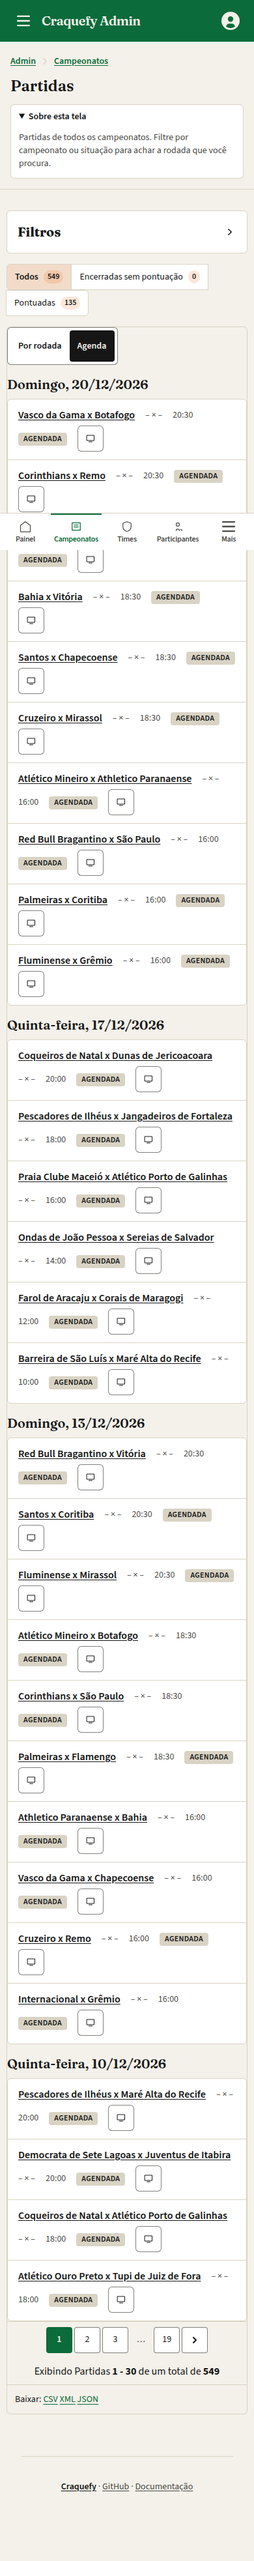
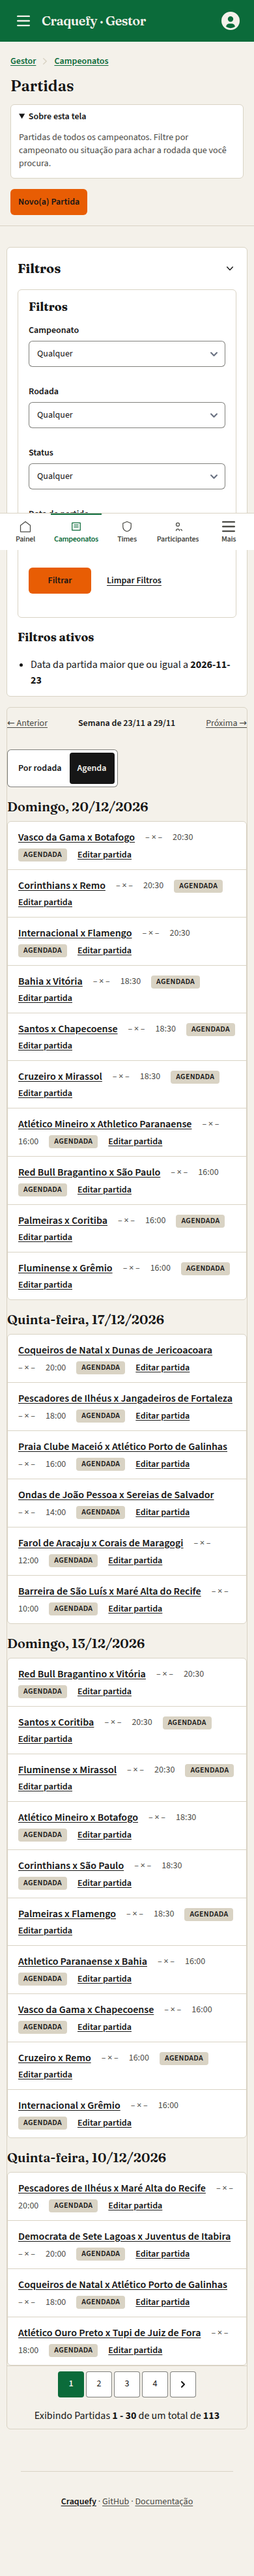
feat(admin): próximo passo por partida, agenda por semana e Filtros ativos em português (TICKET-0103)

diff --git a/spec/requests/admin/listings_spec.rb b/spec/requests/admin/listings_spec.rb
@@ -7,6 +7,7 @@ RSpec.describe 'Admin and Gestor listings on Ui::CollectionComponent (TICKET-010
 
   def page_html = Nokogiri::HTML5(response.body)
   def collection(id) = page_html.at_css("section##{id}[data-controller='collection']")
+  def week_link(label) = page_html.at_css("[data-role='agenda-weeks'] a[aria-label='#{label}']")
 
   before do
     championship.teams << team
@@ -76,6 +77,32 @@ RSpec.describe 'Admin and Gestor listings on Ui::CollectionComponent (TICKET-010
       get '/gestor/championships'
       card = page_html.at_css("#championships-item-#{championship.id}").text.squish
       expect(card).to include('Times 2', 'Partidas 1', 'rascunho', 'Continuar rascunho')
+    end
+
+    it 'shows the next step of each match' do
+      live = create(:match, championship:, status: 'live', match_date: 1.hour.ago, home_team: team)
+
+      get '/gestor/matches'
+
+      steps = page_html.css('#matches [data-role="match-step"]').to_h { [_1.text, _1['href']] }
+      expect(steps).to include('Registrar lances' => "/gestor/matches/#{live.id}")
+      expect(steps.keys).to include('Editar partida')
+    end
+
+    it 'walks the agenda week by week, also through an empty week' do
+      monday = Date.new(2026, 11, 9)
+      create(:match, championship:, match_date: Time.zone.local(2026, 11, 15, 16), home_team: team)
+
+      get '/gestor/matches', params: { view: 'agenda', q: { match_date_gteq: '2026-11-11' } }
+      expect(page_html.at_css('[data-role="agenda-week"]').text).to eq('Semana de 09/11 a 15/11')
+      expect(page_html.css('#matches [data-role="collection-group"] h3').map(&:text)).to eq(['Domingo, 15/11/2026'])
+
+      get week_link('Próxima semana')['href']
+      next_week = "Semana de #{(monday + 7).strftime('%d/%m')} a #{(monday + 13).strftime('%d/%m')}"
+      expect(page_html.at_css('[data-role="agenda-week"]').text).to eq(next_week)
+      expect(page_html.at_css('[data-role="empty-state"]')).to be_present
+      expect(page_html.at_css('.active-filters-title').text.squish).to eq('Filtros ativos')
+      expect(week_link('Semana anterior')).to be_present
     end
 
     it 'opens the round of the next match by default' do

diff --git a/spec/requests/links_spec.rb b/spec/requests/links_spec.rb
@@ -11,21 +11,20 @@ RSpec.describe 'Links e botões com rótulo de destino (TICKET-0106)', type: :re
     create(:match, championship: create(:championship, manager:), home_team: team)
     sign_in(manager)
 
-    get '/gestor/teams'
+    get '/gestor/teams', params: { view: 'table' }
 
-    labels = page.css("tr#core_team_#{team.id} [data-role='admin-table-action']").map { _1['aria-label'] }
-    expect(labels).to include('Abrir Real Paraisópolis', 'Editar Real Paraisópolis')
+    labels = page.css("#teams-item-#{team.id} [data-role='admin-table-action']").map { _1['aria-label'] }
+    expect(labels).to eq(['Editar Real Paraisópolis'])
   end
 
   it 'os ícones padrão do Admin dizem verbo e registro' do
     sign_in(create(:user, :admin))
     team = create(:team, name: 'Juventude do Morro')
 
-    get '/admin/teams'
+    get '/admin/teams', params: { view: 'table' }
 
-    labels = page.css("tr#core_team_#{team.id} [data-role='admin-table-action']").map { _1['aria-label'] }
-    expect(labels.first).to eq('Abrir Juventude do Morro')
-    expect(labels).to all(end_with('Juventude do Morro'))
+    labels = page.css("#teams-item-#{team.id} [data-role='admin-table-action']").map { _1['aria-label'] }
+    expect(labels).to eq(['Editar Juventude do Morro'])
   end
 
   it 'o painel vazio do Gestor oferece "Criar campeonato"' do

diff --git a/app/helpers/match_steps_helper.rb b/app/helpers/match_steps_helper.rb
@@ -1,0 +1,22 @@
+# The single next step of a match (Gestor::MatchQueue#step_for), in the Gestor queue and the Admin/Gestor match
+# lists. Steps without a page of their own (or edit on /admin, where matches are not edited) are a note.
+module MatchStepsHelper
+  MATCH_STEP_LINKS = { edit: 'Editar partida', scouts: 'Registrar lances', finalize: 'Finalizar partida' }.freeze
+  MATCH_STEP_NOTES = { edit: 'Agendada', scoring: 'Aguardando a pontuação', scored: 'Concluída',
+                       reverted: 'Aguardando nova pontuação' }.freeze
+
+  def match_next_step(match, step, namespace, classes: inline_link_classes(tone: :ink), role: 'match-step')
+    path = match_step_path(match, step, namespace)
+    return tag.span(MATCH_STEP_NOTES.fetch(step), class: AdminHelper::ADMIN_MUTED_TEXT_CLASSES) unless path
+
+    link_to MATCH_STEP_LINKS.fetch(step), path, class: classes, data: { role: }
+  end
+
+  def match_step_path(match, step, namespace)
+    case step
+    when :edit then edit_gestor_match_path(match) if namespace == :gestor
+    when :scouts then public_send(:"#{namespace}_match_path", match)
+    when :finalize then public_send(:"#{namespace}_match_path", match, modal: 'finalize')
+    end
+  end
+end

diff --git a/app/helpers/listings_helper.rb b/app/helpers/listings_helper.rb
@@ -8,4 +8,20 @@ module ListingsHelper
   def listing_view(views) = params[:view].to_s.presence_in(views.keys.map(&:to_s))&.to_sym || views.keys.first
 
   def listing_sort_options = { sort: params[:sort], direction: params[:dir] }
+
+  # Week shown by the matches agenda: the ActiveAdmin date filter (?q[match_date_gteq]), Monday to Sunday.
+  def agenda_week
+    Date.iso8601(params.dig(:q, :match_date_gteq).to_s).beginning_of_week
+  rescue Date::Error
+    nil
+  end
+
+  def agenda_week_path(week)
+    filters = request.query_parameters['q']
+    filters = (filters.is_a?(Hash) ? filters : {}).merge('match_date_gteq' => week.iso8601,
+                                                         'match_date_lt' => (week + 7).iso8601)
+    query = request.query_parameters.except('page', 'sort', 'dir')
+                   .merge('view' => 'agenda', 'order' => 'match_date_asc', 'q' => filters)
+    "#{request.path}?#{query.to_query}"
+  end
 end

diff --git a/docs/tickets/TICKET-0103.md b/docs/tickets/TICKET-0103.md
@@ -54,6 +54,10 @@ Lista corrida por data, com Rodada, Data, Placar e Situação fora da vista (`do
   | Importações CSV | tabela |
   | Logs de auditoria e Histórico | linha do tempo por dia |
 
+- **Partidas:**
+  - cada partida mostra o próximo passo ("Editar partida", "Registrar lances", "Finalizar partida" ou a situação), com o mesmo `MatchStepsHelper` da fila do Gestor;
+  - a agenda anda por semana ("← Anterior", "Próxima →") pelo filtro de data do ActiveAdmin, inclusive numa semana sem partidas.
+- **"Filtros ativos":** o título da busca ativa do ActiveAdmin, que a tradução da gem deixa em inglês ("Active Search").
 - **Painéis:** as filas do painel do Admin (ao vivo, pontuação pendente, últimas partidas, pedidos de gestor) e a fila do Gestor viram tabelas do componente. No celular, são cartões com o próximo passo dentro.
 - **Painel do Admin:** deixou de rolar para o lado em 390px (`min-w-0` nas colunas do grid).
 - **`Ui::CollectionComponent`:**
@@ -67,7 +71,8 @@ Lista corrida por data, com Rodada, Data, Placar e Situação fora da vista (`do
   - modo de cada listagem no Admin e no Gestor, sem a tabela do ActiveAdmin;
   - alternância de visualização;
   - ordenação e coluna desconhecida ignorada;
-  - contagens, linha do tempo, "Continuar rascunho" e rodada aberta.
+  - contagens, linha do tempo, "Continuar rascunho" e rodada aberta;
+  - próximo passo por partida e agenda semana a semana, passando por uma semana vazia.
 - `spec/components/ui/collection_component_spec.rb`: coluna que devolve número.
 - Specs do ActiveAdmin, da fila do Gestor, dos pedidos de gestor e do histórico atualizados para o componente.
 - Playwright: `docs/checkpoints/ux-audit/before-0103/` e `after-0103/`. Em 390px, nenhuma página rola para o lado (28 telas mais os dois painéis).

diff --git a/docs/checkpoints/UX-LISTAGENS.md b/docs/checkpoints/UX-LISTAGENS.md
@@ -34,7 +34,7 @@ As telas passaram para o componente por um renderizador de índice do ActiveAdmi
 | Campeonatos | `cards` | Logo, temporada, modalidade, times inscritos, partidas, situação e próximo passo ("Continuar rascunho" ou "Abrir") |
 | Times | `grid` ↔ `table` | Grade de escudos com o número de jogadores; tabela com sigla, capitão e gestor (Admin) |
 | Jogadores | `table` | Nome primeiro; ordenar por nome, posição, número e valor base; cartões no celular |
-| Partidas | `grouped` ↔ `agenda` | Por rodada de cada campeonato, com a primeira rodada que tem jogo por fazer aberta; agenda por dia |
+| Partidas | `grouped` ↔ `agenda` | Por rodada de cada campeonato, com a primeira rodada que tem jogo por fazer aberta; agenda por dia com semana anterior/próxima; próximo passo em cada partida |
 | Usuários | `table` | Nome, e-mail, papel, pedido de gestor e cadastro; ordenar por nome, e-mail e cadastro |
 | Bolões | `cards` | Campeonato, código, participantes e dono (Admin) |
 | Importações CSV | `table` | "Importação #N" como título, situação, linhas, erro e data |

diff --git a/docs/ux/listagens.md b/docs/ux/listagens.md
@@ -50,6 +50,7 @@ end
 ```
 
 - `?sort=&dir=` vira o `order` do ActiveAdmin (`CollectionSortParams`), só para colunas da tabela.
+- A agenda de partidas anda por semana com `agenda_week_path`, que preenche o filtro de data do ActiveAdmin (`q[match_date_gteq]` e `q[match_date_lt]`). A navegação aparece também na tela de "nenhum resultado".
 - Contagens por linha vêm de `listing_counts(Modelo, :chave, records)`: uma consulta por contagem.
 - A seleção em lote do ActiveAdmin fica desligada nessas telas; ações em lote usam `c.bulk_action`.
 - Auditoria da migração: `docs/checkpoints/UX-LISTAGENS.md`.
